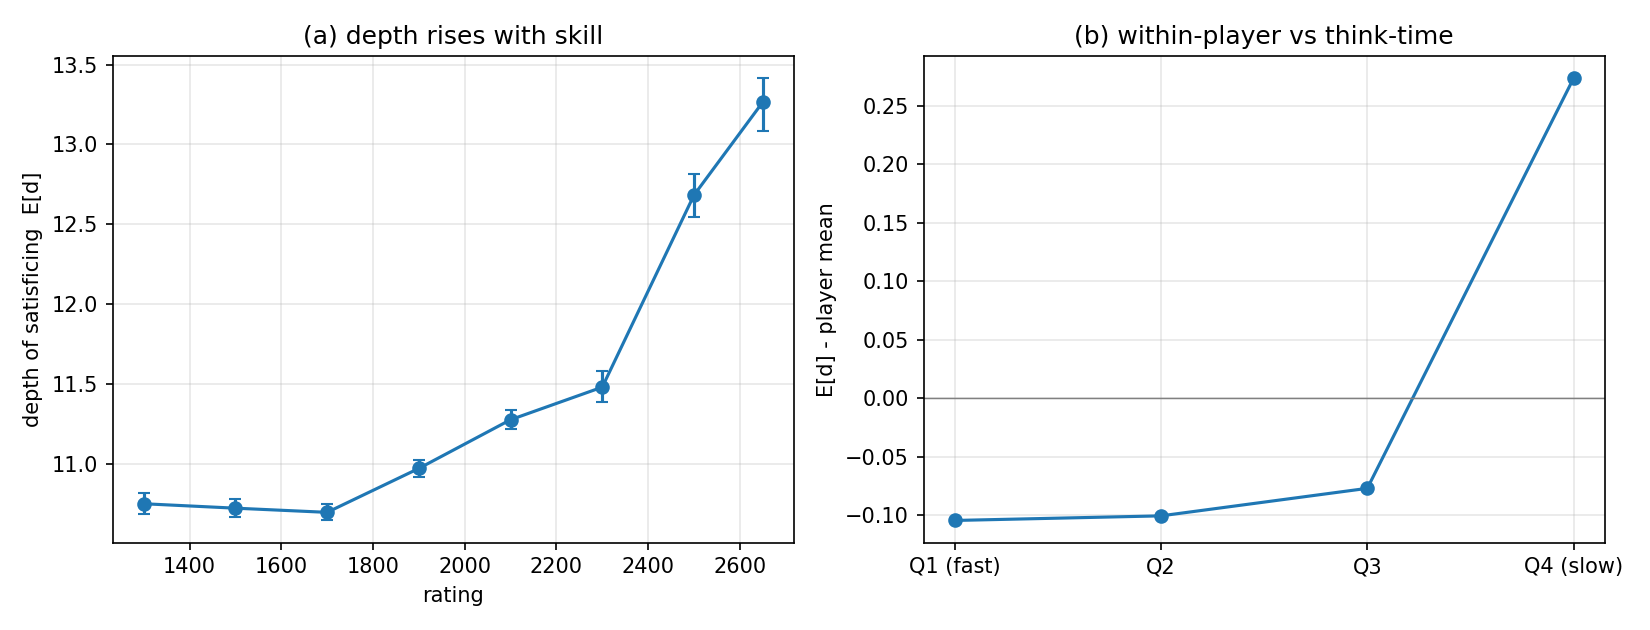
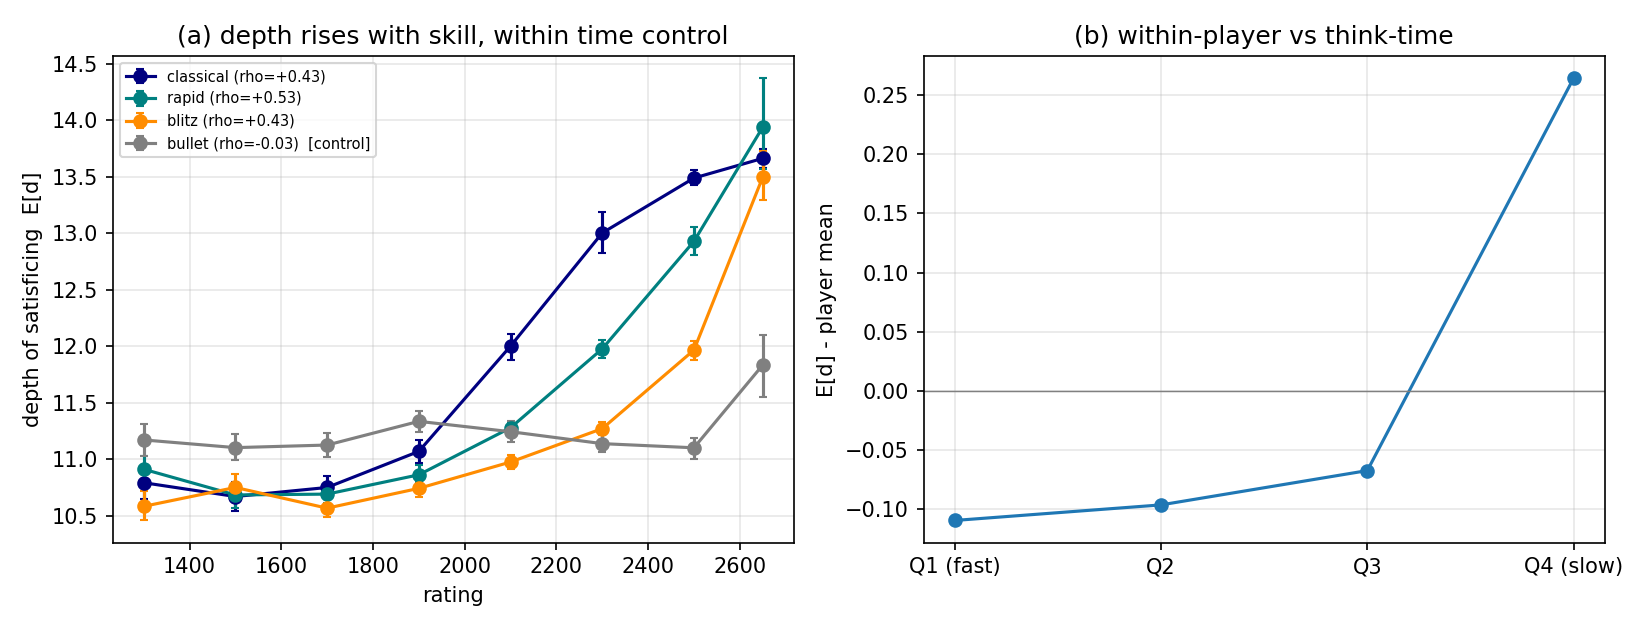
Correct swing sign (ICMLA convention), stratify E2 within time control, add E4 swing-magnitude interaction + E6 recovery
- build_dataset: swing-up = delta DECREASES with depth (sw>0); swing-down = trap (sw<0).
  Fixes inverted label vs Biswas-Regan 2015 / manuscript Methods.
- analyze E2: depth-vs-rating WITHIN each time control (pooling confounds skill with clock);
  classical rho=+0.43, rapid +0.53, blitz +0.43, bullet -0.03 (negative control).
- analyze E4: registered differential by swing MAGNITUDE x time control --
  classical/high-swing +0.053 nats, interaction +0.059 [95% CI 0.054, 0.063] (excludes 0);
  plus swing-DIRECTION dissociation (gain on classical swing-up moves).
- analyze E6: synthetic depth recovery via per-agent flat-prior posterior on the search
  likelihood (fitted beta=7 vs generative 6); ordinal recovery, group Spearman=1.0.
- synthetic_agents: parallel, node-capped, emits selected-schema parquet; config_syn.yaml.

diff --git a/src/analyze.py b/src/analyze.py
@@ -129,11 +129,25 @@ def e4(cfg):
     print(f"\nfusion vs state-only:  Delta NLL = {gap:+.4f} nats  "
           f"(top1 {100*(f_t1.mean()-s_t1.mean()):+.2f} pts)   [positive = fusion better]")
 
-    # --- pre-registered differential: gap by time_class x swing_class ---
+    # --- pre-registered differential #1 (manuscript E4): swing MAGNITUDE x time control ---
     tc = np.array(meta["time_class"])[vidx]
-    sw = np.array(meta["swing"])[vidx]
     d_gap = s_nll - f_nll   # per-decision improvement from fusion
-    print("\n=== differential gain (Delta NLL, fusion - state) by stratum ===")
+    tsw = ctx[vidx, 3].numpy()                       # total swing of position (magnitude)
+    hi = tsw >= np.median(tsw)
+    print("\n=== registered E4: gain by swing-MAGNITUDE x time control ===")
+    print(f"  {'stratum':28s} {'n':>8s} {'dNLL':>9s}")
+    for t in ["classical", "rapid", "blitz", "bullet"]:
+        for lab, m in [("high-swing", hi), ("low-swing", ~hi)]:
+            sel = (tc == t) & m
+            if sel.sum():
+                print(f"  {t+'/'+lab:28s} {sel.sum():>8d} {d_gap[sel].mean():>+9.4f}")
+    a0 = d_gap[(tc == "classical") & hi]; b0 = d_gap[(tc == "blitz") & ~hi]
+    if len(a0) and len(b0):
+        print(f"  interaction(classical/high - blitz/low) = {a0.mean()-b0.mean():+.4f} nats")
+
+    # --- differential #2 (dissociation bonus): gap by time_class x swing DIRECTION ---
+    sw = np.array(meta["swing"])[vidx]
+    print("\n=== bonus: gain by swing-DIRECTION x time control ===")
     print(f"  {'stratum':28s} {'n':>8s} {'dNLL':>9s}")
     for t in ["classical", "rapid", "blitz", "bullet"]:
         for s in ["down", "up"]:
@@ -148,6 +162,32 @@ def e4(cfg):
               f"vs gain(blitz,swing-up)={b.mean():+.4f}  "
               f"contrast={a.mean()-b.mean():+.4f} nats")
         print("(pre-registered: fusion should help most in classical/high-swing, ~0 in blitz/low-swing)")
+
+    # --- significance via player-clustered bootstrap (robust alt. to the registered mixed model) ---
+    # The registered E4 contrast is the SWING-MAGNITUDE x time-control interaction:
+    # gain(classical, high-swing) - gain(blitz, low-swing).
+    vpl = np.array(players)[vidx]
+    pl = np.unique(vpl)
+    rng = np.random.default_rng(0)
+    by_p = {p: np.where(vpl == p)[0] for p in pl}
+    cl_hi = (tc == "classical") & hi          # hi = high swing magnitude (from the E4 block above)
+    bl_lo = (tc == "blitz") & ~hi
+    inter = d_gap[cl_hi].mean() - d_gap[bl_lo].mean()
+    boots_overall, boots_inter = [], []
+    for _ in range(1000):
+        samp = rng.choice(pl, len(pl), replace=True)
+        rows = np.concatenate([by_p[p] for p in samp])
+        boots_overall.append(d_gap[rows].mean())
+        ai = d_gap[rows][cl_hi[rows]]; bi = d_gap[rows][bl_lo[rows]]
+        if len(ai) and len(bi):
+            boots_inter.append(ai.mean() - bi.mean())
+    bo = np.percentile(boots_overall, [2.5, 97.5])
+    bc = np.percentile(boots_inter, [2.5, 97.5])
+    print(f"\nplayer-clustered bootstrap (1000x):")
+    print(f"  overall fusion-state gain:        {gap:+.4f}  95% CI [{bo[0]:+.4f}, {bo[1]:+.4f}]  "
+          f"{'(excludes 0)' if bo[0] > 0 else '(includes 0)'}")
+    print(f"  swing-magnitude x TC interaction: {inter:+.4f}  95% CI [{bc[0]:+.4f}, {bc[1]:+.4f}]  "
+          f"{'(excludes 0)' if bc[0] > 0 else '(includes 0)'}")
 
 
 @torch.no_grad()
@@ -215,27 +255,38 @@ def e2(cfg):
     model = fit(mc, dev, delta, logq, mask, dmask, ctx, y, tr)
     dh = dhat_over(model, dev, delta, logq, mask, dmask, ctx, y, vidx)
     vb = np.array([band_of(e) for e in elo[vidx]]); vpl = players[vidx]
+    vtc = np.array(meta["time_class"])[vidx]
 
-    # Fig2a: per-band mean E[d] with player-cluster bootstrap 95% CI (bootstrap per-player means)
-    rng = np.random.default_rng(0); means, los, his = [], [], []
-    for bi in range(len(BANDS)):
-        sel = vb == bi
-        if sel.sum() < 50:
-            means.append(np.nan); los.append(np.nan); his.append(np.nan); continue
-        ps = np.unique(vpl[sel])
-        pmean = np.array([dh[sel & (vpl == p)].mean() for p in ps])   # per-player mean E[d]
-        means.append(pmean.mean())
-        bs = pmean[rng.integers(0, len(pmean), size=(1000, len(pmean)))].mean(1)
-        los.append(np.percentile(bs, 2.5)); his.append(np.percentile(bs, 97.5))
-    means = np.array(means)
+    # Fig2a: depth vs rating WITHIN each time control (pooling confounds skill with clock,
+    # since elite/high-rated play is mostly classical). Bullet is the natural negative control.
     fig, ax = plt.subplots(1, 2, figsize=(11, 4.2))
-    ax[0].errorbar(BAND_MID, means, yerr=[means-np.array(los), np.array(his)-means],
-                   marker="o", capsize=3)
+    rng = np.random.default_rng(0)
+    print(f"E2a depth vs rating, WITHIN time control (pooled rho={spearmanr(elo[vidx], dh).correlation:+.3f}, confounded):")
+    colors = {"classical": "navy", "rapid": "teal", "blitz": "darkorange", "bullet": "grey"}
+    for t in ["classical", "rapid", "blitz", "bullet"]:
+        tsel = vtc == t
+        means, los, his = [], [], []
+        for bi in range(len(BANDS)):
+            sel = tsel & (vb == bi)
+            if sel.sum() < 50:
+                means.append(np.nan); los.append(np.nan); his.append(np.nan); continue
+            ps = np.unique(vpl[sel])
+            pmean = np.array([dh[sel & (vpl == p)].mean() for p in ps])
+            means.append(pmean.mean())
+            bs = pmean[rng.integers(0, len(pmean), size=(1000, len(pmean)))].mean(1)
+            los.append(np.percentile(bs, 2.5)); his.append(np.percentile(bs, 97.5))
+        means = np.array(means)
+        rho = spearmanr(elo[vidx][tsel], dh[tsel]).correlation
+        lab = f"{t} (rho={rho:+.2f})" + ("  [control]" if t == "bullet" else "")
+        ok = ~np.isnan(means)
+        ax[0].errorbar(np.array(BAND_MID)[ok], means[ok],
+                       yerr=[(means-np.array(los))[ok], (np.array(his)-means)[ok]],
+                       marker="o", capsize=2, color=colors[t], label=lab)
+        print(f"   {t:10s} n={tsel.sum():>6d}  Spearman={rho:+.3f}  "
+              f"per-band E[d]: " + " ".join(f"{m:.2f}" for m in means if not np.isnan(m)))
     ax[0].set_xlabel("rating"); ax[0].set_ylabel("depth of satisficing  E[d]")
-    ax[0].set_title("(a) depth rises with skill"); ax[0].grid(alpha=.3)
-    rho = spearmanr(elo[vidx], dh).correlation
-    print(f"E2a per-band E[d]: " + " ".join(f"{m:.2f}" for m in means))
-    print(f"   Spearman(E[d], rating) held-out = {rho:+.3f}")
+    ax[0].set_title("(a) depth rises with skill, within time control"); ax[0].grid(alpha=.3)
+    ax[0].legend(fontsize=7)
 
     # Fig2b: within-player time-pressure effect. Need think-time -> join selected by pos_id.
     sel_df = pd.read_parquet(cfg["data"]["selected"], columns=["pos_id", "time_spent"]).set_index("pos_id")
@@ -299,8 +350,69 @@ def e3(cfg):
     print(f"E3 -> {p}")
 
 
+def e6(cfg, syn_cfg_path="config_syn.yaml"):
+    """Fig6: recover planted depth from synthetic agents (identifiability).
+
+    Recovery is a per-agent depth estimate from the agents' MOVES, not from context: the
+    synthetic agents are pure-search (no Maia patterns) and were generated at one decision
+    sharpness, so the estimator uses the search likelihood (alpha=0), fits beta to the
+    synthetic population, and reads each agent's depth from a flat-prior posterior. (Applying
+    the human-fit context prior instead collapses E[d] to the prior mean -- the per-decision
+    move evidence is too weak to move a fixed prior; see the manuscript discussion.)"""
+    os.makedirs(FIGDIR, exist_ok=True)
+    syn = yaml.safe_load(open(syn_cfg_path))
+    blob, delta, logq, mask, dmask, ctx, y = load(syn)
+    meta = blob["meta"]
+    grid = np.array(cfg["model"]["depth_grid"]); D = len(grid)
+    sel = pd.read_parquet(syn["data"]["selected"], columns=["pos_id", "planted_depth"]).set_index("pos_id")
+    planted = sel.reindex(np.array(meta["pos_id"]))["planted_depth"].to_numpy()
+    agent = np.array(meta["player"])
+    mb = mask.bool()
+
+    def logp_yd(beta, alpha=0.0):                         # [N, D] log P(y | depth d)
+        logits = (-beta * delta + alpha * logq.unsqueeze(-1)).masked_fill(~mb.unsqueeze(-1), -1e9)
+        lp = torch.log_softmax(logits, 1)
+        return lp.gather(1, y.view(-1, 1, 1).expand(-1, 1, D)).squeeze(1).numpy()
+
+    from scipy.special import logsumexp
+    betas = np.linspace(1, 14, 27)
+    beta_hat = betas[int(np.argmax([logsumexp(logp_yd(b) - np.log(D), 1).sum() for b in betas]))]
+    L = logp_yd(beta_hat)
+    print(f"E6: fitted beta on synthetic = {beta_hat:.1f} (agents generated at beta_gen={cfg['synthetic']['softmax_beta_gen']})")
+
+    agents = np.unique(agent); rec, rec_pl = [], []
+    for ag in agents:
+        m = agent == ag
+        s = L[m].sum(0); r = np.exp(s - s.max()); r /= r.sum()
+        rec.append(float((grid * r).sum())); rec_pl.append(int(planted[m][0]))
+    rec = np.array(rec); rec_pl = np.array(rec_pl)
+    depths = sorted(set(rec_pl))
+    gmean = np.array([rec[rec_pl == d].mean() for d in depths])
+    gsd = np.array([rec[rec_pl == d].std() for d in depths])
+    mae = np.mean(np.abs(rec - rec_pl))
+    rho = spearmanr(rec_pl, rec).correlation
+    rho_g = spearmanr(depths, gmean).correlation
+
+    fig, ax = plt.subplots(figsize=(5.4, 5))
+    lim = [min(depths) - 2, max(depths) + 2]
+    ax.plot(lim, lim, "--", color="grey", label="identity")
+    ax.scatter(rec_pl + np.random.default_rng(0).normal(0, .15, len(rec_pl)), rec,
+               s=6, alpha=.15, color="steelblue")
+    ax.errorbar(depths, gmean, yerr=gsd, marker="o", color="navy", capsize=3, label="recovered E[d] (mean±sd)")
+    ax.set_xlabel("planted depth $d_{plant}$"); ax.set_ylabel("recovered depth E[d]")
+    ax.set_title(f"E6 recovery: per-agent MAE={mae:.1f}, group $\\rho$={rho_g:.2f}")
+    ax.legend(); ax.grid(alpha=.3)
+    fig.tight_layout(); p = f"{FIGDIR}/fig6_synthetic_recovery.png"; fig.savefig(p, dpi=150)
+    print("E6 recovery (planted -> recovered E[d], per-agent mean±sd):")
+    for d, m, s in zip(depths, gmean, gsd):
+        print(f"   d_plant={d:2d} -> E[d]={m:5.2f} ± {s:.2f}")
+    print(f"   per-agent MAE={mae:.2f} plies | Spearman per-agent={rho:+.3f} | "
+          f"group-mean monotonic Spearman={rho_g:+.3f}")
+    print(f"E6 -> {p}")
+
+
 def main(cfg, result):
-    runners = {"e1": e1, "e2": e2, "e3": e3, "e4": e4}
+    runners = {"e1": e1, "e2": e2, "e3": e3, "e4": e4, "e6": e6}
     todo = list(runners) if result == "all" else [result]
     for r in todo:
         if r not in runners:

diff --git a/src/synthetic_agents.py b/src/synthetic_agents.py
@@ -1,21 +1,41 @@
 """
-Stage 8 (implemented): synthetic agents that satisfice at a KNOWN depth.
+Stage 8: synthetic agents that satisfice at a KNOWN depth (ground-truth for E6/Fig6).
 
-Each agent, at every move, runs Stockfish to a fixed depth d_plant and plays a soft-max
-over the depth-d_plant evaluations (inverse temperature beta_gen). We then run the FULL
-pipeline on these games and check that the model's estimated depth-of-satisficing recovers
-d_plant. This is the ground-truth check that the instrument measures depth, not difficulty.
+Each agent plays every move by a soft-max over Stockfish depth-d_plant win-probs (inverse
+temperature beta_gen). We then run the SAME pipeline (engine -> maia -> build_dataset) on
+these games and check the model's estimated depth-of-satisficing recovers d_plant.
+
+Two design choices that make the recovery a clean identifiability test, not a metadata
+leak:
+  * elo and clock are held CONSTANT across planted depths (NEUTRAL_ELO, classical), so the
+    model cannot read depth off the context -- E[d] must come from the move/regret structure.
+  * a per-position node cap (engine.max_nodes) mirrors the real run.
+
+Generation is parallel: one persistent engine per worker process. Output is a
+selected.parquet-schema table (so it slots straight into run_engine/maia/build_dataset via a
+synthetic config), one row per decision, with an extra `planted_depth` column.
 
 Run:
-    python src/synthetic_agents.py --config config.yaml
-Produces PGNs under data/synthetic/ ; feed them through parse->select->engine->maia->train,
-then compare analyze.py's per-agent depth estimate to the planted depth.
+    python src/synthetic_agents.py --config config.yaml [--games 40] [--workers 64] \
+        --out data/synthetic/selected.parquet
 """
-import argparse, os, yaml, random
-import chess, chess.engine, chess.pgn
+import argparse
+import math
+import os
+import random
+from multiprocessing import Pool
+
+import chess
+import chess.engine
+import pandas as pd
+import yaml
+
+NEUTRAL_ELO = 2000          # same for every agent: depth must not be readable from context
+_ENG = None                 # per-process engine (set in _init)
+_CFG = None
 
 
-def winprob(info):
+def _winprob(info):
     wdl = info.get("wdl")
     if wdl is not None:
         rel = wdl.relative
@@ -23,20 +43,32 @@ def winprob(info):
     return info["score"].relative.wdl(model="sf").expectation()
 
 
-def agent_move(engine, board, d_plant, beta_gen, multipv):
+def _init(ecfg):
+    global _ENG, _CFG
+    _CFG = ecfg
+    _ENG = chess.engine.SimpleEngine.popen_uci(os.path.expanduser(ecfg["path"]))
+    _ENG.configure({"Threads": 1, "Hash": ecfg["hash_mb"], "NumaPolicy": "none"})
+    try:
+        _ENG.configure({"UCI_ShowWDL": True})
+    except chess.engine.EngineError:
+        pass
+
+
+def _agent_move(board, d_plant, beta_gen, multipv, max_nodes, rng):
     """Soft-max over depth-d_plant win-probs (side-to-move POV)."""
     vals = {}
-    with engine.analysis(board, chess.engine.Limit(depth=d_plant), multipv=multipv) as an:
+    lim = (chess.engine.Limit(depth=d_plant, nodes=max_nodes) if max_nodes
+           else chess.engine.Limit(depth=d_plant))
+    with _ENG.analysis(board, lim, multipv=multipv) as an:
         for info in an:
             if info.get("depth") == d_plant and "pv" in info:
-                vals[info["pv"][0]] = winprob(info)
+                vals[info["pv"][0]] = _winprob(info)
     if not vals:
-        return random.choice(list(board.legal_moves))
+        return rng.choice(list(board.legal_moves))
     moves, ws = zip(*vals.items())
-    import math
     z = [math.exp(beta_gen * w) for w in ws]
     s = sum(z)
-    r, acc = random.random() * s, 0.0
+    r, acc = rng.random() * s, 0.0
     for mv, zz in zip(moves, z):
         acc += zz
         if acc >= r:
@@ -44,40 +76,65 @@ def agent_move(engine, board, d_plant, beta_gen, multipv):
     return moves[-1]
 
 
-def play_game(engine, d_plant, beta_gen, multipv, max_ply=120):
+def _play_game(task):
+    """Play one game; return rows in selected.parquet schema (one per decision)."""
+    d_plant, gidx, beta_gen, multipv, max_nodes, max_ply, min_ply = task
+    rng = random.Random(1000 * d_plant + gidx)        # deterministic per (depth, game)
     board = chess.Board()
-    game = chess.pgn.Game()
-    game.headers["Event"] = f"synthetic_depth_{d_plant}"
-    game.headers["WhiteElo"] = game.headers["BlackElo"] = str(1000 + 100 * d_plant)
-    node = game
+    game_id = f"syn_d{d_plant}_g{gidx}"
+    hist, rows = [], []
     while not board.is_game_over() and board.ply() < max_ply:
-        mv = agent_move(engine, board, d_plant, beta_gen, multipv)
+        fen = board.fen()
+        mv = _agent_move(board, d_plant, beta_gen, multipv, max_nodes, rng)
+        uci = mv.uci()
+        ply = board.ply()
+        if ply >= min_ply:                            # skip opening book churn, like the real run
+            rows.append(dict(
+                pos_id=f"{game_id}:{ply}", game_id=game_id, ply=ply, fen=fen,
+                side_to_move_elo=NEUTRAL_ELO, oppo_elo=NEUTRAL_ELO, time_class="classical",
+                base_time=float("nan"), increment=float("nan"),
+                clock_before=float("nan"), clock_after=float("nan"), time_spent=float("nan"),
+                lichess_eval=float("nan"), played_uci=uci, player=game_id,
+                hist_uci=" ".join(hist), source="synthetic", planted_depth=d_plant))
+        hist.append(uci)
         board.push(mv)
-        node = node.add_variation(mv)
-    return game
+    return rows
 
 
-def main(cfg):
+def main(cfg, games, workers, out):
     s = cfg["synthetic"]
-    eng = chess.engine.SimpleEngine.popen_uci(cfg["engine"]["path"])
-    eng.configure({"Threads": cfg["engine"]["threads"], "Hash": cfg["engine"]["hash_mb"]})
-    try:
-        eng.configure({"UCI_ShowWDL": True})
-    except chess.engine.EngineError:
-        pass
-    os.makedirs("data/synthetic", exist_ok=True)
-    for d in s["planted_depths"]:
-        path = f"data/synthetic/depth_{d}.pgn"
-        with open(path, "w") as f:
-            for _ in range(s["games_per_depth"]):
-                g = play_game(eng, d, s["softmax_beta_gen"], cfg["engine"]["multipv"])
-                print(g, file=f, end="\n\n")
-        print(f"wrote {path}")
-    eng.quit()
+    e = cfg["engine"]
+    games = games or s["games_per_depth"]
+    depths = s["planted_depths"]
+    beta_gen = s["softmax_beta_gen"]
+    multipv = e["multipv"]
+    max_nodes = e.get("max_nodes", 0)
+    max_ply = cfg["data"]["max_ply"]
+    min_ply = cfg["data"]["min_ply"]
+    tasks = [(d, g, beta_gen, multipv, max_nodes, max_ply, min_ply)
+             for d in depths for g in range(games)]
+    print(f"generating {len(tasks)} games ({len(depths)} depths x {games}) "
+          f"on {workers} workers, node_cap={max_nodes or 'none'}, neutral_elo={NEUTRAL_ELO}")
+
+    all_rows = []
+    with Pool(workers, initializer=_init, initargs=(e,)) as pool:
+        for i, rows in enumerate(pool.imap_unordered(_play_game, tasks, chunksize=1)):
+            all_rows.extend(rows)
+            if (i + 1) % 50 == 0:
+                print(f"  {i+1}/{len(tasks)} games, {len(all_rows)} decisions", flush=True)
+
+    df = pd.DataFrame(all_rows)
+    os.makedirs(os.path.dirname(out), exist_ok=True)
+    df.to_parquet(out, index=False)
+    print(f"wrote {len(df)} decisions over {df.game_id.nunique()} games "
+          f"({df.planted_depth.value_counts().sort_index().to_dict()}) -> {out}")
 
 
 if __name__ == "__main__":
     ap = argparse.ArgumentParser()
     ap.add_argument("--config", default="config.yaml")
+    ap.add_argument("--games", type=int, default=0, help="games per planted depth (0=cfg)")
+    ap.add_argument("--workers", type=int, default=64)
+    ap.add_argument("--out", default="data/synthetic/selected.parquet")
     a = ap.parse_args()
-    main(yaml.safe_load(open(a.config)))
+    main(yaml.safe_load(open(a.config)), a.games, a.workers, a.out)

diff --git a/src/build_dataset.py b/src/build_dataset.py
@@ -115,11 +115,13 @@ def main(cfg):
         best = wp.max(axis=0, keepdims=True)                          # [1, D]
         delta = np.clip(best - wp, 0.0, None)                         # [M, D]
 
-        # per-move swing sw(m) = sum_d (delta_{m,d} - delta_{m,D}); total swing of position
+        # per-move swing sw(m) = sum_d (delta_{m,d} - delta_{m,D}); total swing of position.
+        # ICMLA-2015 convention: a move SWINGS UP if its delta DECREASES with depth (potential
+        # shows only deep) => sw>0; SWINGS DOWN if delta rises with depth (a trap) => sw<0.
         sw = (delta - delta[:, -1:]).sum(axis=1)                      # [M]
         total_swing = float(np.abs(sw).sum())
         played_idx = cand.index(played)
-        swing_class = "down" if sw[played_idx] > 0 else "up"
+        swing_class = "up" if sw[played_idx] > 0 else "down"
 
         qd = q_by_pos[pos_id]
         logq = np.array([math.log(max(qd.get(m, Q_FLOOR), Q_FLOOR)) for m in cand])